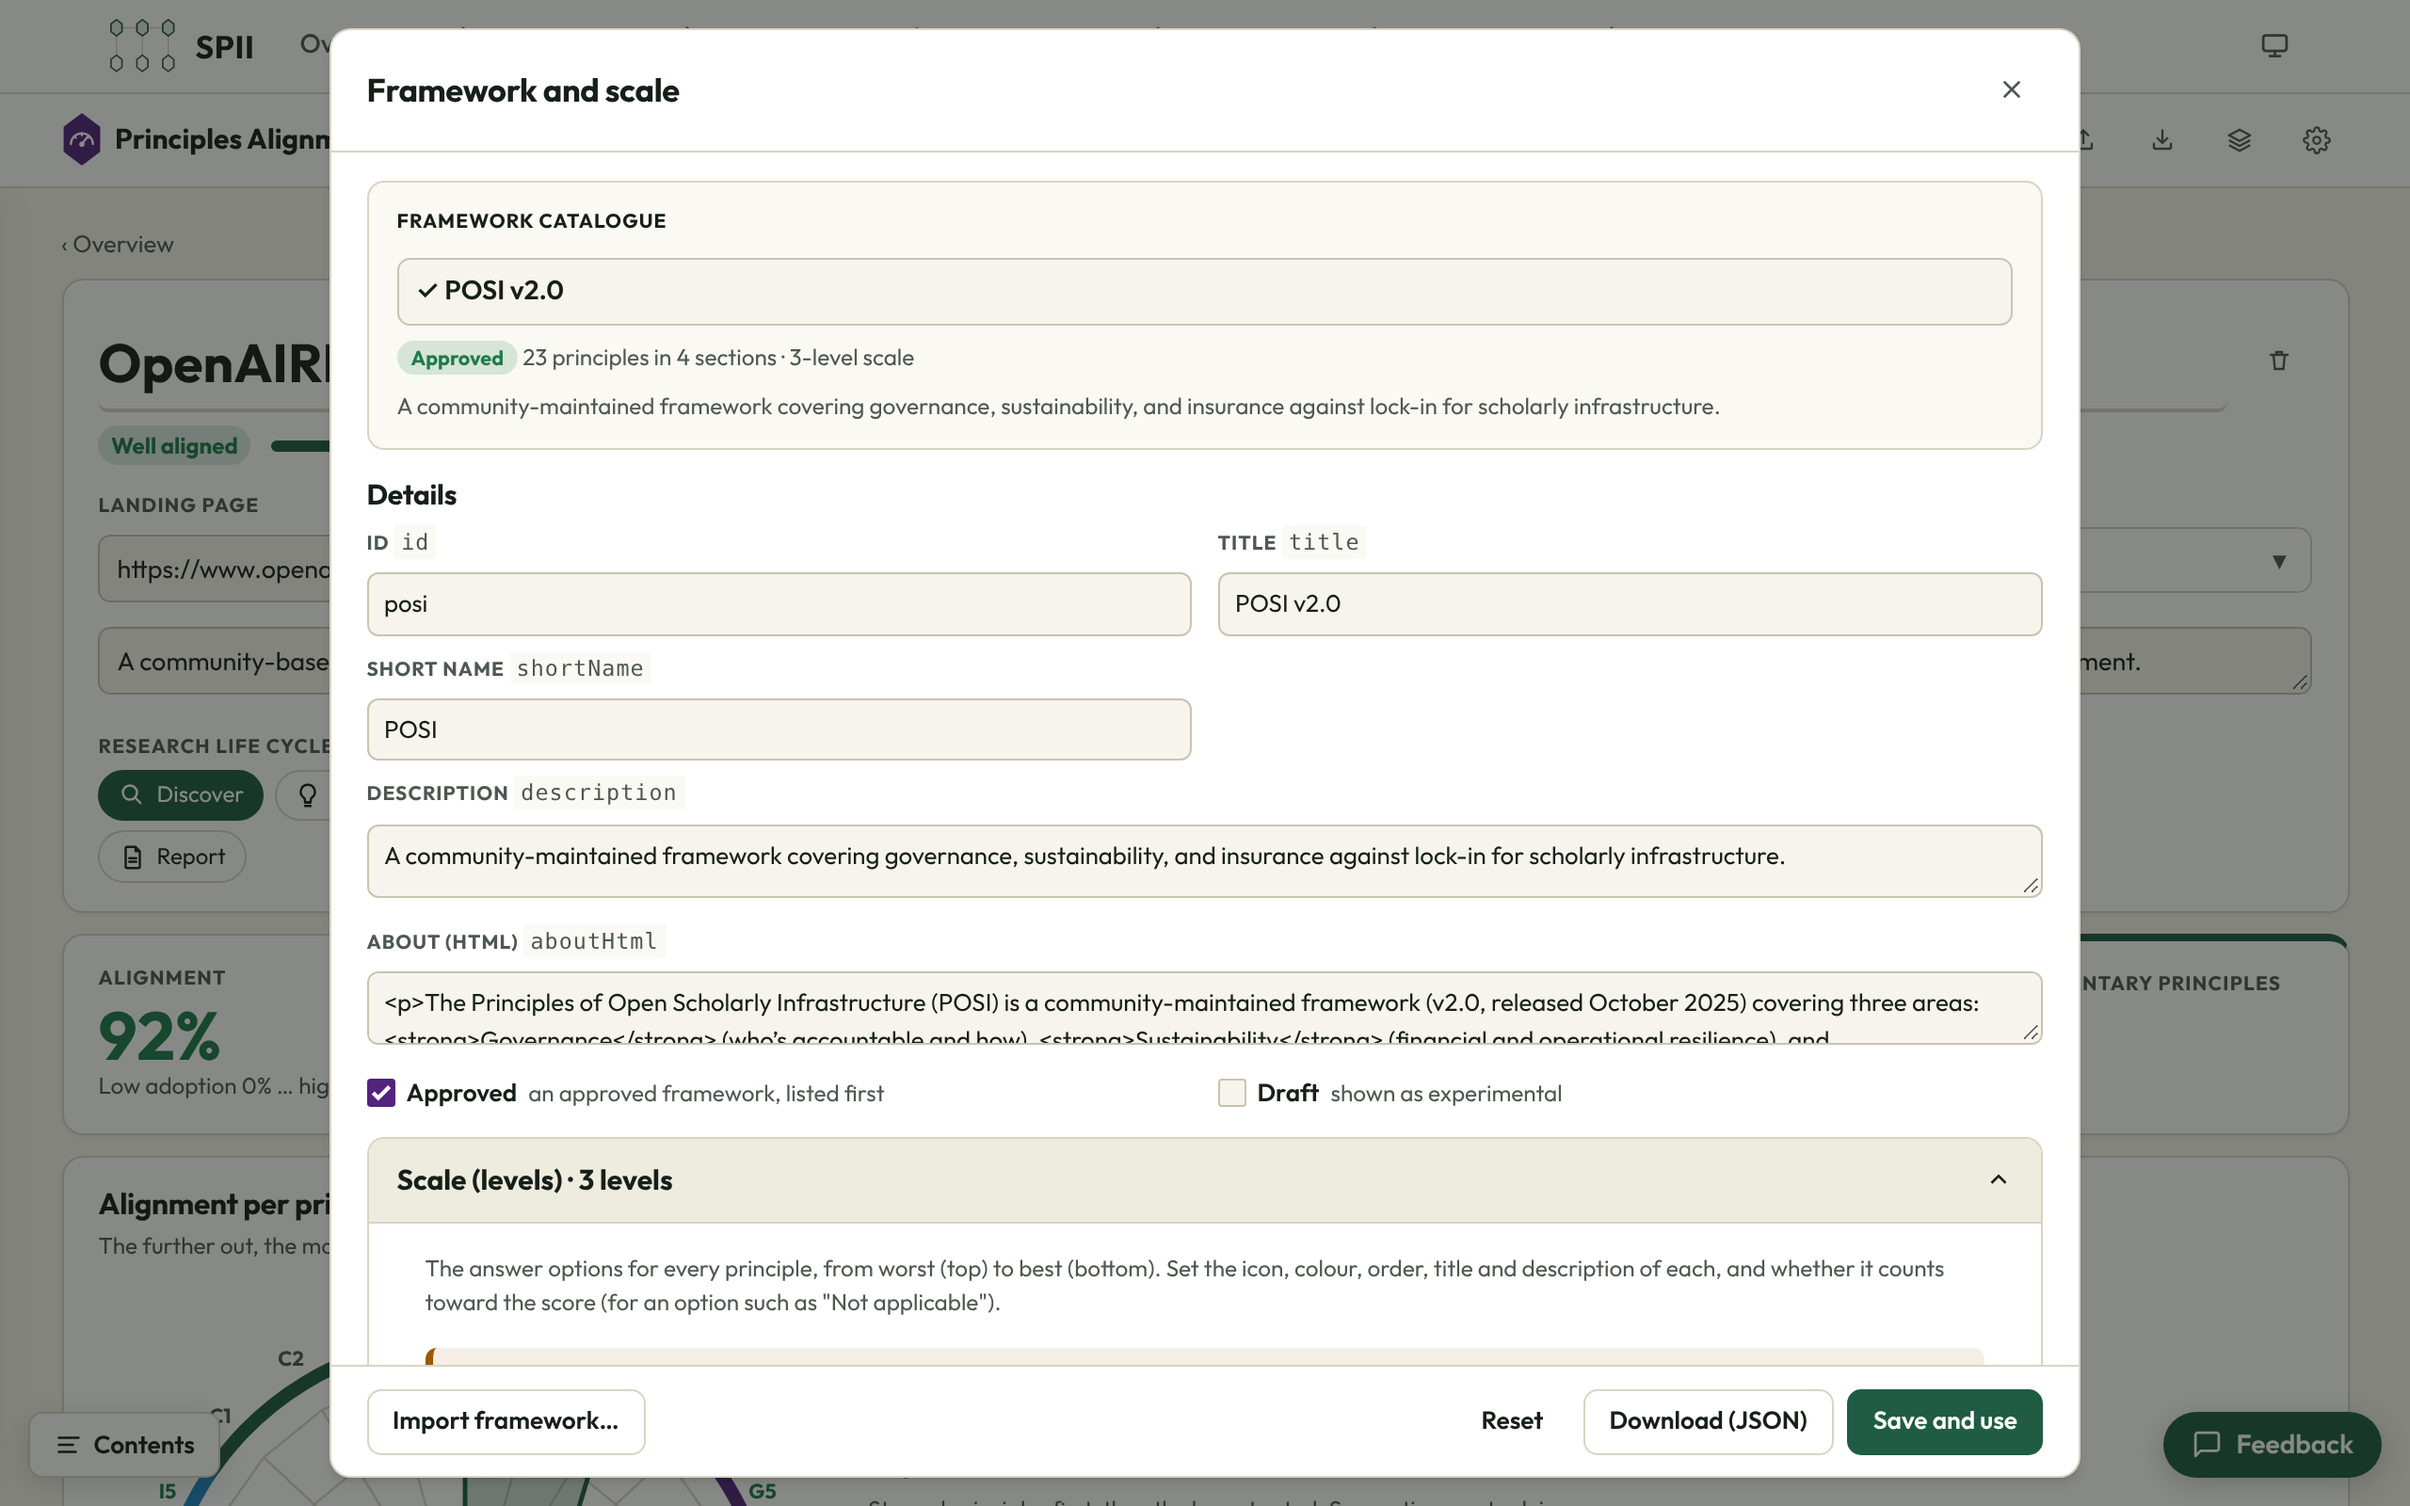
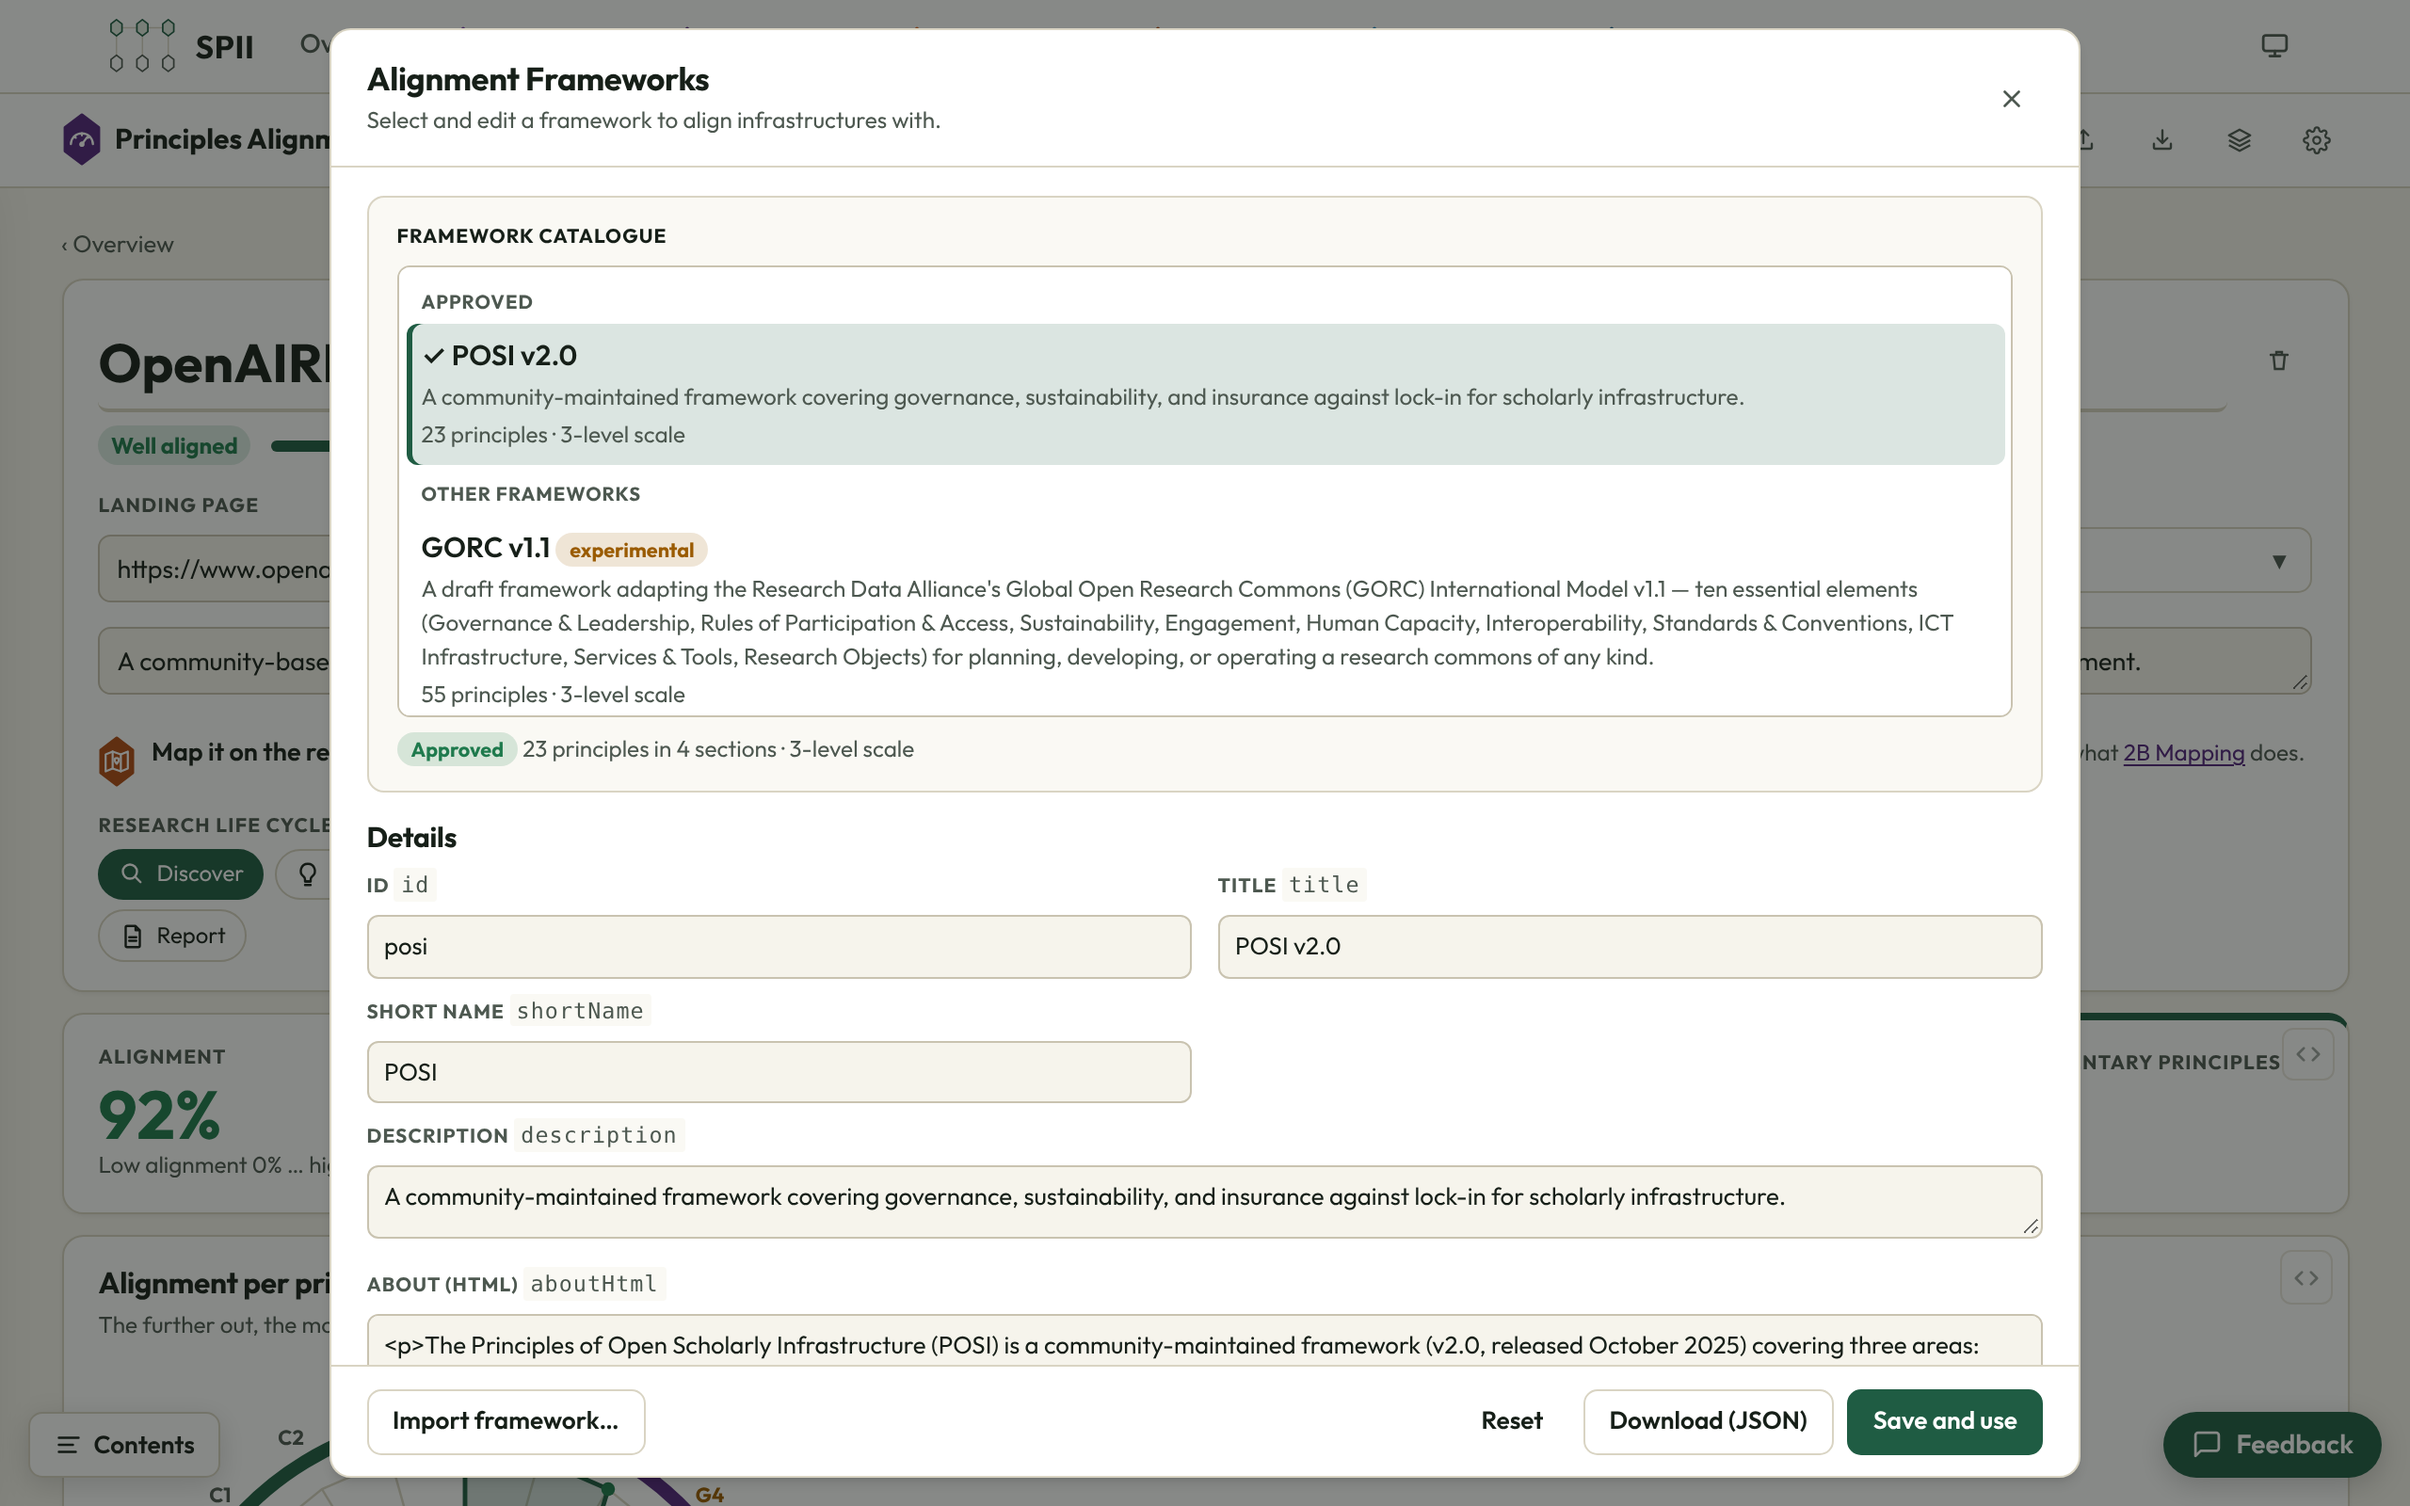
Wording: high and low alignment instead of adoption
POSI's levels are now Low alignment, Making progress and High
alignment (their ids stay the same, so saved answers keep working),
in the framework, both interfaces, the reports, the tests and the
presentation, with fresh screenshots.

Claude-Session: https://claude.ai/code/session_01Ty7TZndw3rZSH1jYcDeSGp

diff --git a/index.html b/index.html
@@ -583,7 +583,7 @@
         <button class="btn" id="o-import">Import</button><button class="btn primary" id="o-add">+ Add infrastructure</button></div>
       <div class="kpis">
         <div class="card kpi"><div class="label">Fully aligned</div><div class="value">${complete}<small> / ${db.infras.length}</small></div><div class="bar" style="margin-top:.5rem"><span style="width:${(complete / db.infras.length) * 100}%"></span></div></div>
-        <div class="card kpi"><div class="label">Average alignment</div><div class="value" style="color:${pctColour(avg)}">${avg == null ? "–" : avg + "%"}</div><div class="muted small">Low adoption 0%, high adoption 100%; N/A left out</div></div>
+        <div class="card kpi"><div class="label">Average alignment</div><div class="value" style="color:${pctColour(avg)}">${avg == null ? "–" : avg + "%"}</div><div class="muted small">Low alignment 0%, high alignment 100%; N/A left out</div></div>
         <div class="card kpi"><div class="label">All answers, all infrastructures</div><div class="stack">${stack}<span style="flex:1;background:transparent"></span></div>
           <div class="legend">${levels().concat([NA]).map((l) => `<span><i style="background:${levelColour(l.id)}"></i>${esc(l.label)} ${counts[l.id]}</span>`).join("")}<span><i style="background:var(--muted, #eeebdf)"></i>Not answered ${unanswered}</span></div></div>
       </div>
@@ -763,7 +763,7 @@
     const sc = score(inf);
     const band = sc.pct == null ? "Not aligned yet" : sc.pct >= 75 ? "Well aligned" : sc.pct >= 40 ? "Partly aligned" : "Little aligned";
     $("#i-status").innerHTML = `<span class="pct" style="background:color-mix(in srgb, ${pctColour(sc.pct)} 16%, transparent);color:${pctColour(sc.pct)}">${band}</span><div class="bar" style="width:9rem"><span style="width:${(sc.answered / sc.total) * 100}%"></span></div><span class="muted">${sc.answered}/${sc.total} principles</span>`;
-    $("#i-results").innerHTML = `<div class="card"><div class="field-label">Alignment</div><div class="score-big" style="color:${pctColour(sc.pct)}">${sc.pct == null ? "–" : sc.pct + "%"}</div><div class="muted small">Low adoption 0% … high adoption 100%</div></div>` +
+    $("#i-results").innerHTML = `<div class="card"><div class="field-label">Alignment</div><div class="score-big" style="color:${pctColour(sc.pct)}">${sc.pct == null ? "–" : sc.pct + "%"}</div><div class="muted small">Low alignment 0% … high alignment 100%</div></div>` +
       FW.sections.map((s, i) => { const v = sectionScore(inf, s); return `<div class="card sec-card" style="border-top:4px solid ${secColour(i)}"><div class="field-label">${esc(s.section)}</div><div class="value" style="color:${pctColour(v.pct)}">${v.pct == null ? "–" : v.pct + "%"}</div><div class="muted small">${v.answered}/${v.total} aligned</div></div>`; }).join("");
     $("#i-radar").innerHTML = radar(inf);
     $("#i-suggest").innerHTML = suggestions(inf);
@@ -809,7 +809,7 @@
       .sort((a, b) => (b.a.star ? 1 : 0) - (a.a.star ? 1 : 0) || levelValue(a.a.level) - levelValue(b.a.level)).slice(0, 3);
     if (!pick.length) {
       const todo = ps.filter((x) => !x.a.level).length;
-      return `<h3 style="margin:0 0 .4rem">Where to start</h3><p class="muted small">${todo ? `${todo} principles still to align. Star the ones that matter most to you; they come first here once aligned.` : "Every principle that applies is at high adoption."}</p>`;
+      return `<h3 style="margin:0 0 .4rem">Where to start</h3><p class="muted small">${todo ? `${todo} principles still to align. Star the ones that matter most to you; they come first here once aligned.` : "Every principle that applies is at high alignment."}</p>`;
     }
     return `<h3 style="margin:0 0 .4rem">Improve next</h3><p class="muted small" style="margin-top:0">Starred principles first, then those at the lowest level. Suggestions, not advice.</p><div class="suggest">${pick.map(({ p, a }) => {
       const g = p.guidance || null;

diff --git a/docs/presentation/2026-12-02-osnl/index.html b/docs/presentation/2026-12-02-osnl/index.html
@@ -189,7 +189,7 @@ body.show-notes aside.notes { display: block; position: absolute; left: 0; right
 </section>
 <section id="how" class="slide">
 <div class="shot-row">
-<img class="shot" src="principle.png" alt="The tool showing the principle Coverage across the scholarly enterprise for OpenAIRE: level buttons with icons, High adoption chosen, unfolded to what each adoption level looks like, ideas to improve, examples and a note" style="--i:0">
+<img class="shot" src="principle.png" alt="The tool showing the principle Coverage across the scholarly enterprise for OpenAIRE: level buttons with icons, High alignment chosen, unfolded to what each adoption level looks like, ideas to improve, examples and a note" style="--i:0">
 <div class="shot-text">
 <p class="eyebrow">How it works</p>
 <h2>Align each principle</h2>
@@ -201,7 +201,7 @@ body.show-notes aside.notes { display: block; position: absolute; left: 0; right
 </ol>
 </div>
 </div>
-<aside class="notes">About 45 seconds. How does it work? You add your infrastructure, describe it, and pick the research activities it supports. Then you align each principle with one click, or with the keys 1, 2, 3 and 0: low adoption, making progress, high adoption, or not applicable. Each principle has a short question to help you. You can star the principles that matter most to you. And when you want guidance, you unfold a principle: what each level looks like, ideas to improve and examples from organisations that do it well. These come from the reports of POSI adopters.</aside>
+<aside class="notes">About 45 seconds. How does it work? You add your infrastructure, describe it, and pick the research activities it supports. Then you align each principle with one click, or with the keys 1, 2, 3 and 0: low alignment, making progress, high alignment, or not applicable. Each principle has a short question to help you. You can star the principles that matter most to you. And when you want guidance, you unfold a principle: what each level looks like, ideas to improve and examples from organisations that do it well. These come from the reports of POSI adopters.</aside>
 </section>
 <section id="word" class="slide">
 <div class="shot-row">

diff --git a/old/index.html b/old/index.html
@@ -4,7 +4,7 @@
         <meta charset="UTF-8">
         <meta name="viewport" content="width=device-width, initial-scale=1.0">
         <title>Principles Alignment Tool (previous version)</title>
-        <meta name="description" content="Self-assess how an Open Science infrastructure puts POSI and other principles into practice — rate principles on a low-to-high adoption scale (or your own scale), classify its activities, and export a report or a shareable badge.">
+        <meta name="description" content="Self-assess how an Open Science infrastructure puts POSI and other principles into practice — rate principles on a low-to-high alignment scale (or your own scale), classify its activities, and export a report or a shareable badge.">
         <meta property="og:title" content="Open Science Infrastructure Principles Alignment Tool">
         <meta property="og:description" content="Self-assess an Open Science infrastructure against POSI and other alignment frameworks, then print a short report or share an alignment chart.">
         <meta property="og:type" content="website">

diff --git a/README.md b/README.md
@@ -12,8 +12,8 @@ This repository hosts both the tool itself and its feedback/issue tracker.
 
 A self-assessment tool for Open Science infrastructures. Name your
 infrastructure, classify the activities it supports, and score it against
-one or more assessment frameworks — POSI scores low adoption / making
-progress / high adoption, most other frameworks compliant / making progress /
+one or more assessment frameworks — POSI scores low alignment / making
+progress / high alignment, most other frameworks compliant / making progress /
 not compliant, and a framework can define its own ordinal scale (see SPII
 Alignment below); you can also define your own scale for any framework
 ("Customize and define your own alignment scale", above the principles) — with
@@ -33,7 +33,7 @@ principles, criteria, or copy, no code changes needed:
   Governance, Sustainability, and Insurance. **The official, approved
   assessment framework** (marked with a seal icon in the tool), the only
   framework under "Default" in the framework dropdown.
-  Scored low adoption / making progress / high adoption. Three
+  Scored low alignment / making progress / high alignment. Three
   complementary SPII principles (Autonomy, and the Researcher-centric
   principles Seamless user-experience and Recognition and rewards) are
   added at the end as a section "Complementary Principles". On October 1,
